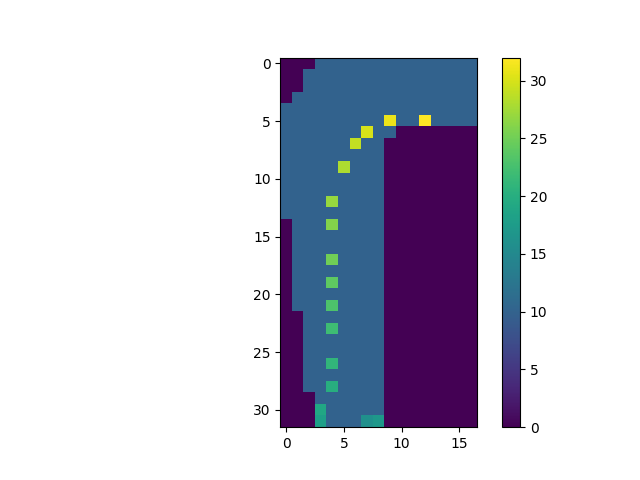
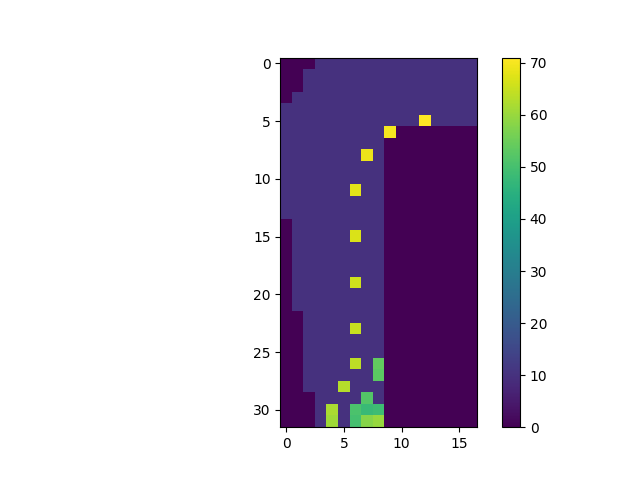
5.7 Updated Results

diff --git a/Part-I/5. Monte Carlo Methods/5.7 Racetrack MC Control/main.py b/Part-I/5. Monte Carlo Methods/5.7 Racetrack MC Control/main.py
@@ -43,25 +43,25 @@ class GreedyAgent(object):
         self.Q = Q
 
 # PARAMETERS - behaviour is ignored and target is used as agent when OFF_POLICY = False
-EPISODES = 2000000
+EPISODES = 20000
 MAX_Y_SPEED, MAX_X_SPEED = (4, 4)
 ENVIRONMENT = Racetrack_1(MAX_Y_SPEED, MAX_X_SPEED)
-TARGET = EpsilonGreedyAgent(ENVIRONMENT, epsilon=0.1)
-BEHAVIOUR = None
+TARGET = GreedyAgent(ENVIRONMENT)
+BEHAVIOUR = EpsilonGreedyAgent(ENVIRONMENT, epsilon=0.1)
 GAMMA = 1.0
 NUM_START_STATES = 6
-OFF_POLICY = False
+OFF_POLICY = True
 
 if __name__ == '__main__':
     if OFF_POLICY:
-        monte_carlo_q_off_policy_control(ENVIRONMENT, TARGET, BEHAVIOUR, GAMMA, max_iterations=EPISODES)
+        # Having pessimistic Q-values is essential for off-policy and is preferred for on-policy as well
+        monte_carlo_q_off_policy_control(ENVIRONMENT, TARGET, BEHAVIOUR, GAMMA, max_iterations=EPISODES, target_Q=defaultdict(lambda: -1000000), behaviour_Q=defaultdict(lambda: -1000000))
     else:
-        monte_carlo_q_on_policy_control(ENVIRONMENT, TARGET, GAMMA, max_iterations=EPISODES)
+        monte_carlo_q_on_policy_control(ENVIRONMENT, TARGET, GAMMA, max_iterations=EPISODES, start_Q=defaultdict(lambda: -1000000))
 
     tested_states = set()
     # If using off-policy with a deterministic target policy - this could loop indefinitely if it hasn't trained "long enough".
-    # 2 million episodes is not enough. To showcase the results of off-policy, another way to represent the policy is needed
-    # or add some randomness to move out of cycles.
+    # Perhaps add some randomness or check if there is a cycle to try to avoid it.
     while len(tested_states) < NUM_START_STATES: 
         state = ENVIRONMENT.reset()
         if state in tested_states:
@@ -75,6 +75,7 @@ if __name__ == '__main__':
             iterator += 1
             track[(state[0], state[1])] = iterator
             action = TARGET(state)
+            # step_after_noise avoids the randomness of the environment (check its source)
             state, reward, terminal, _ = ENVIRONMENT.step_after_noise(action)
         
         plt.imshow(track, interpolation='none')
